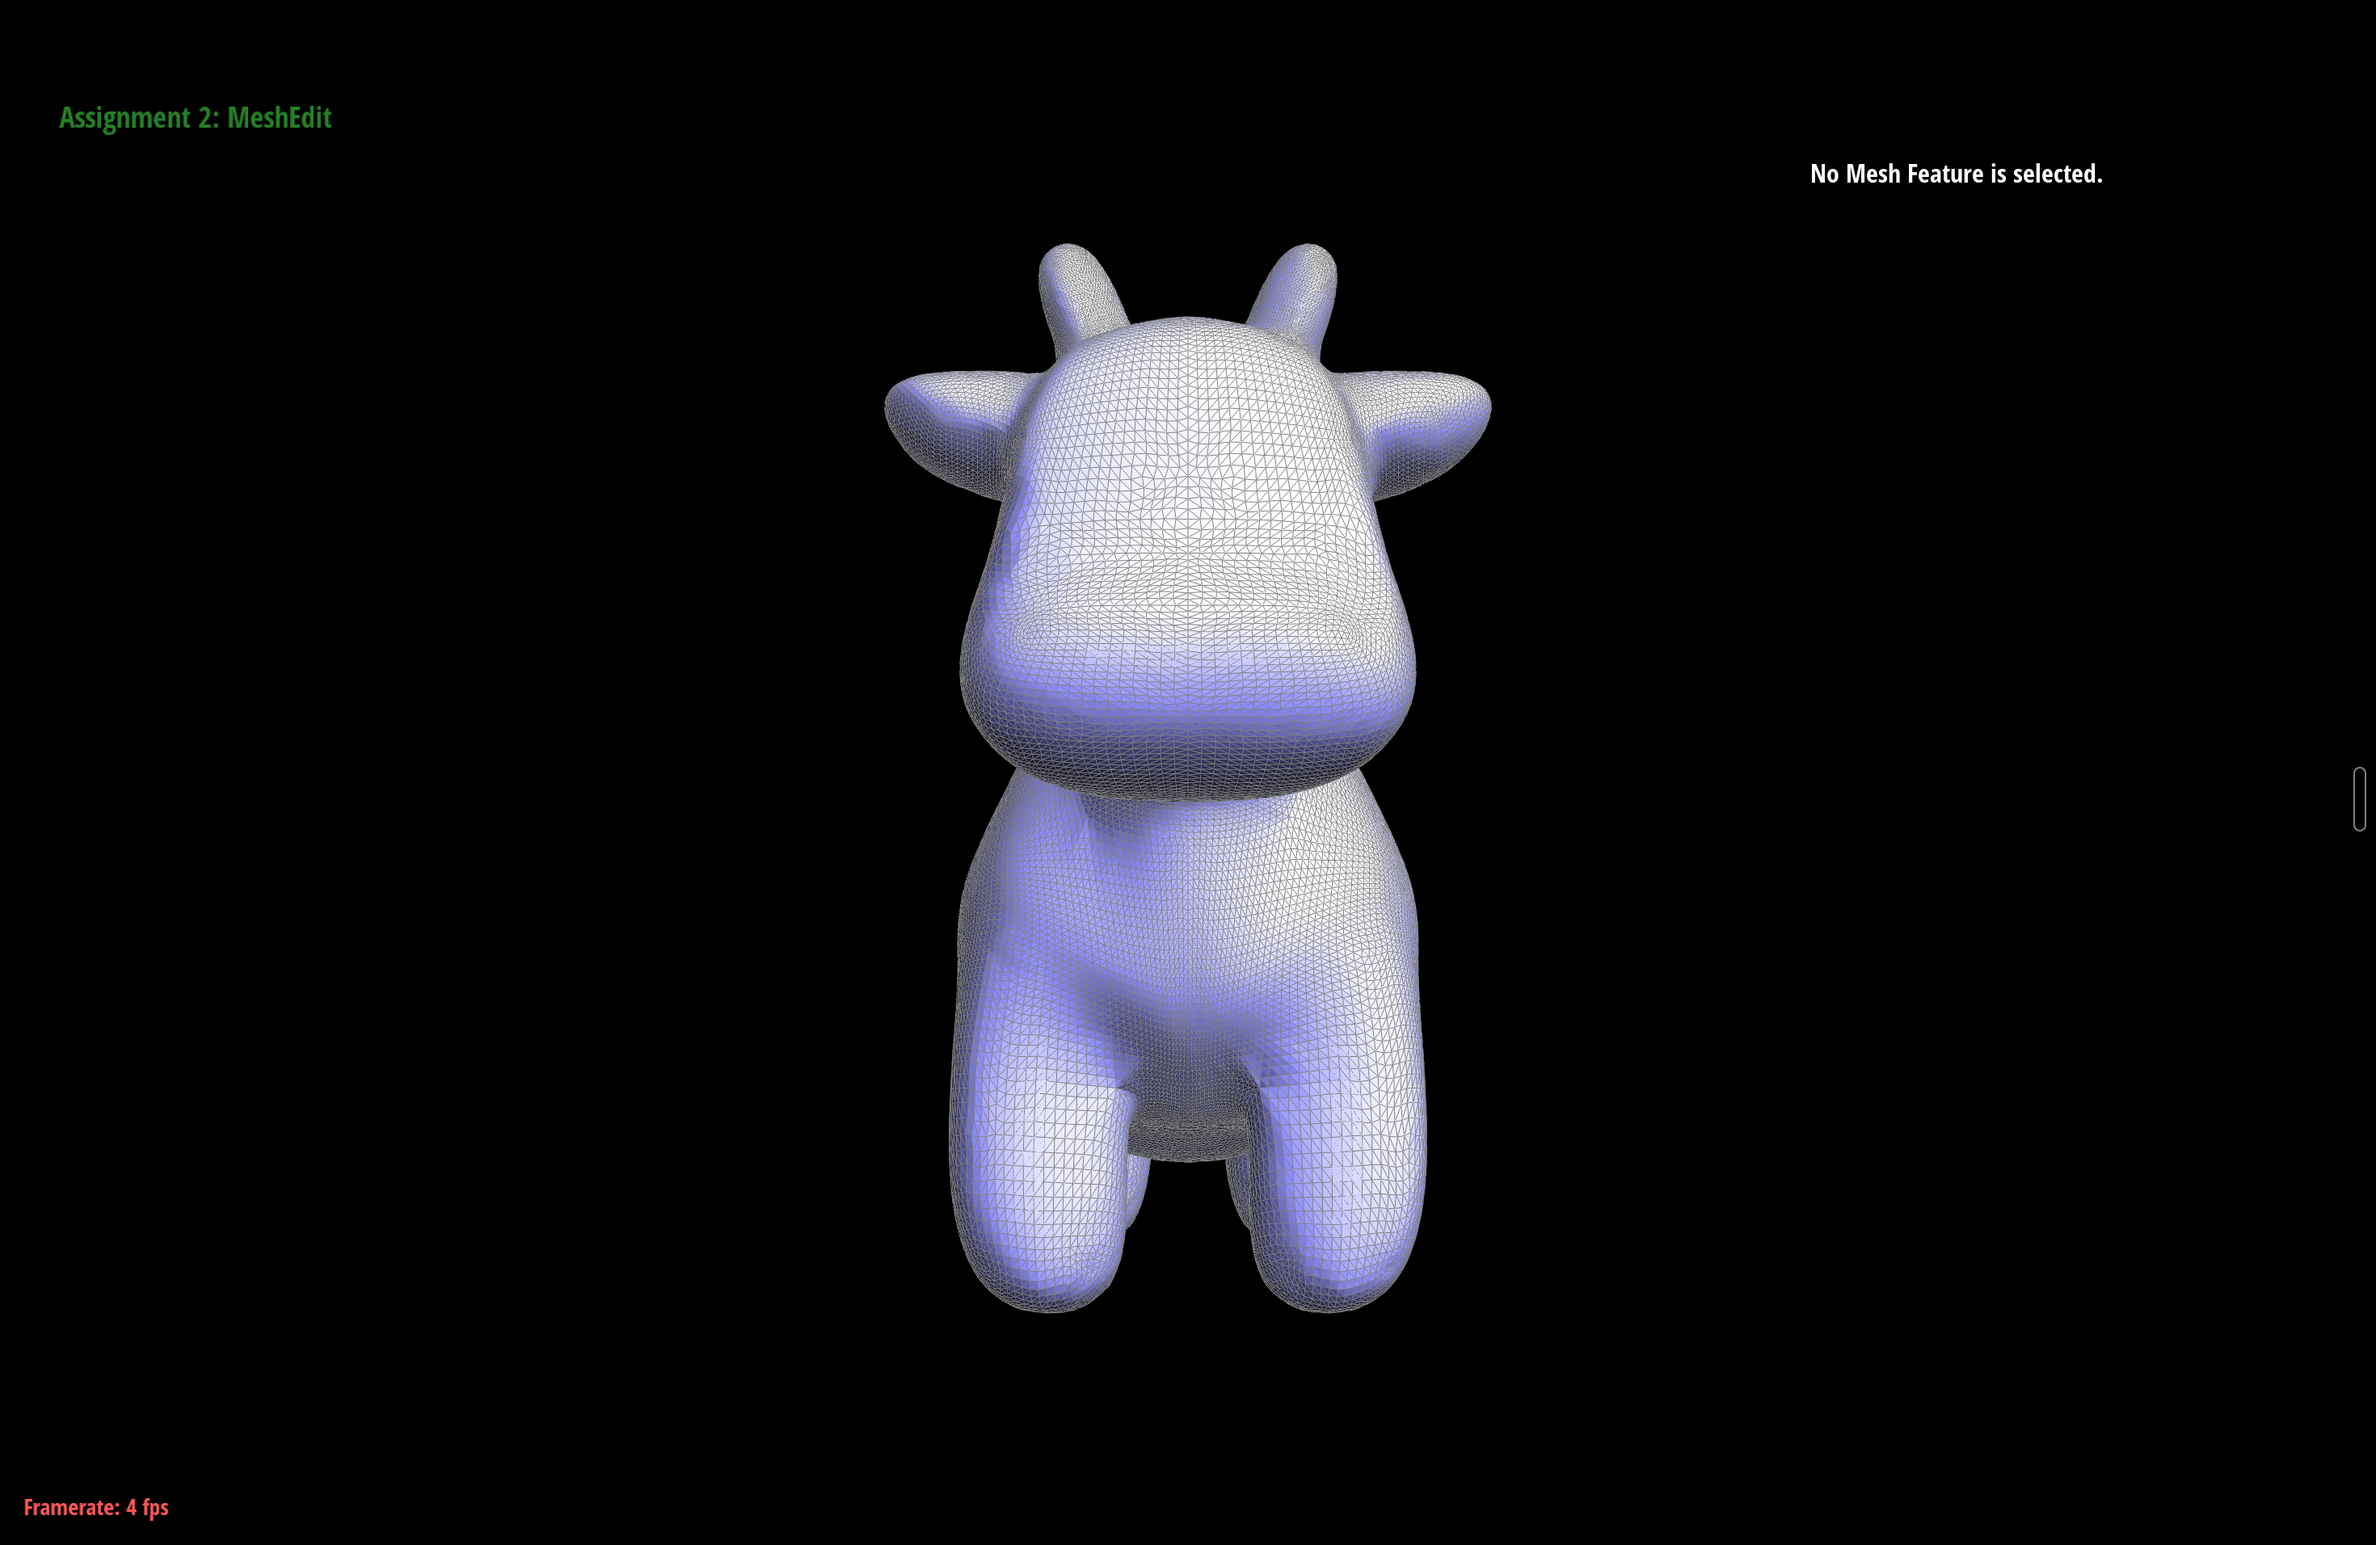
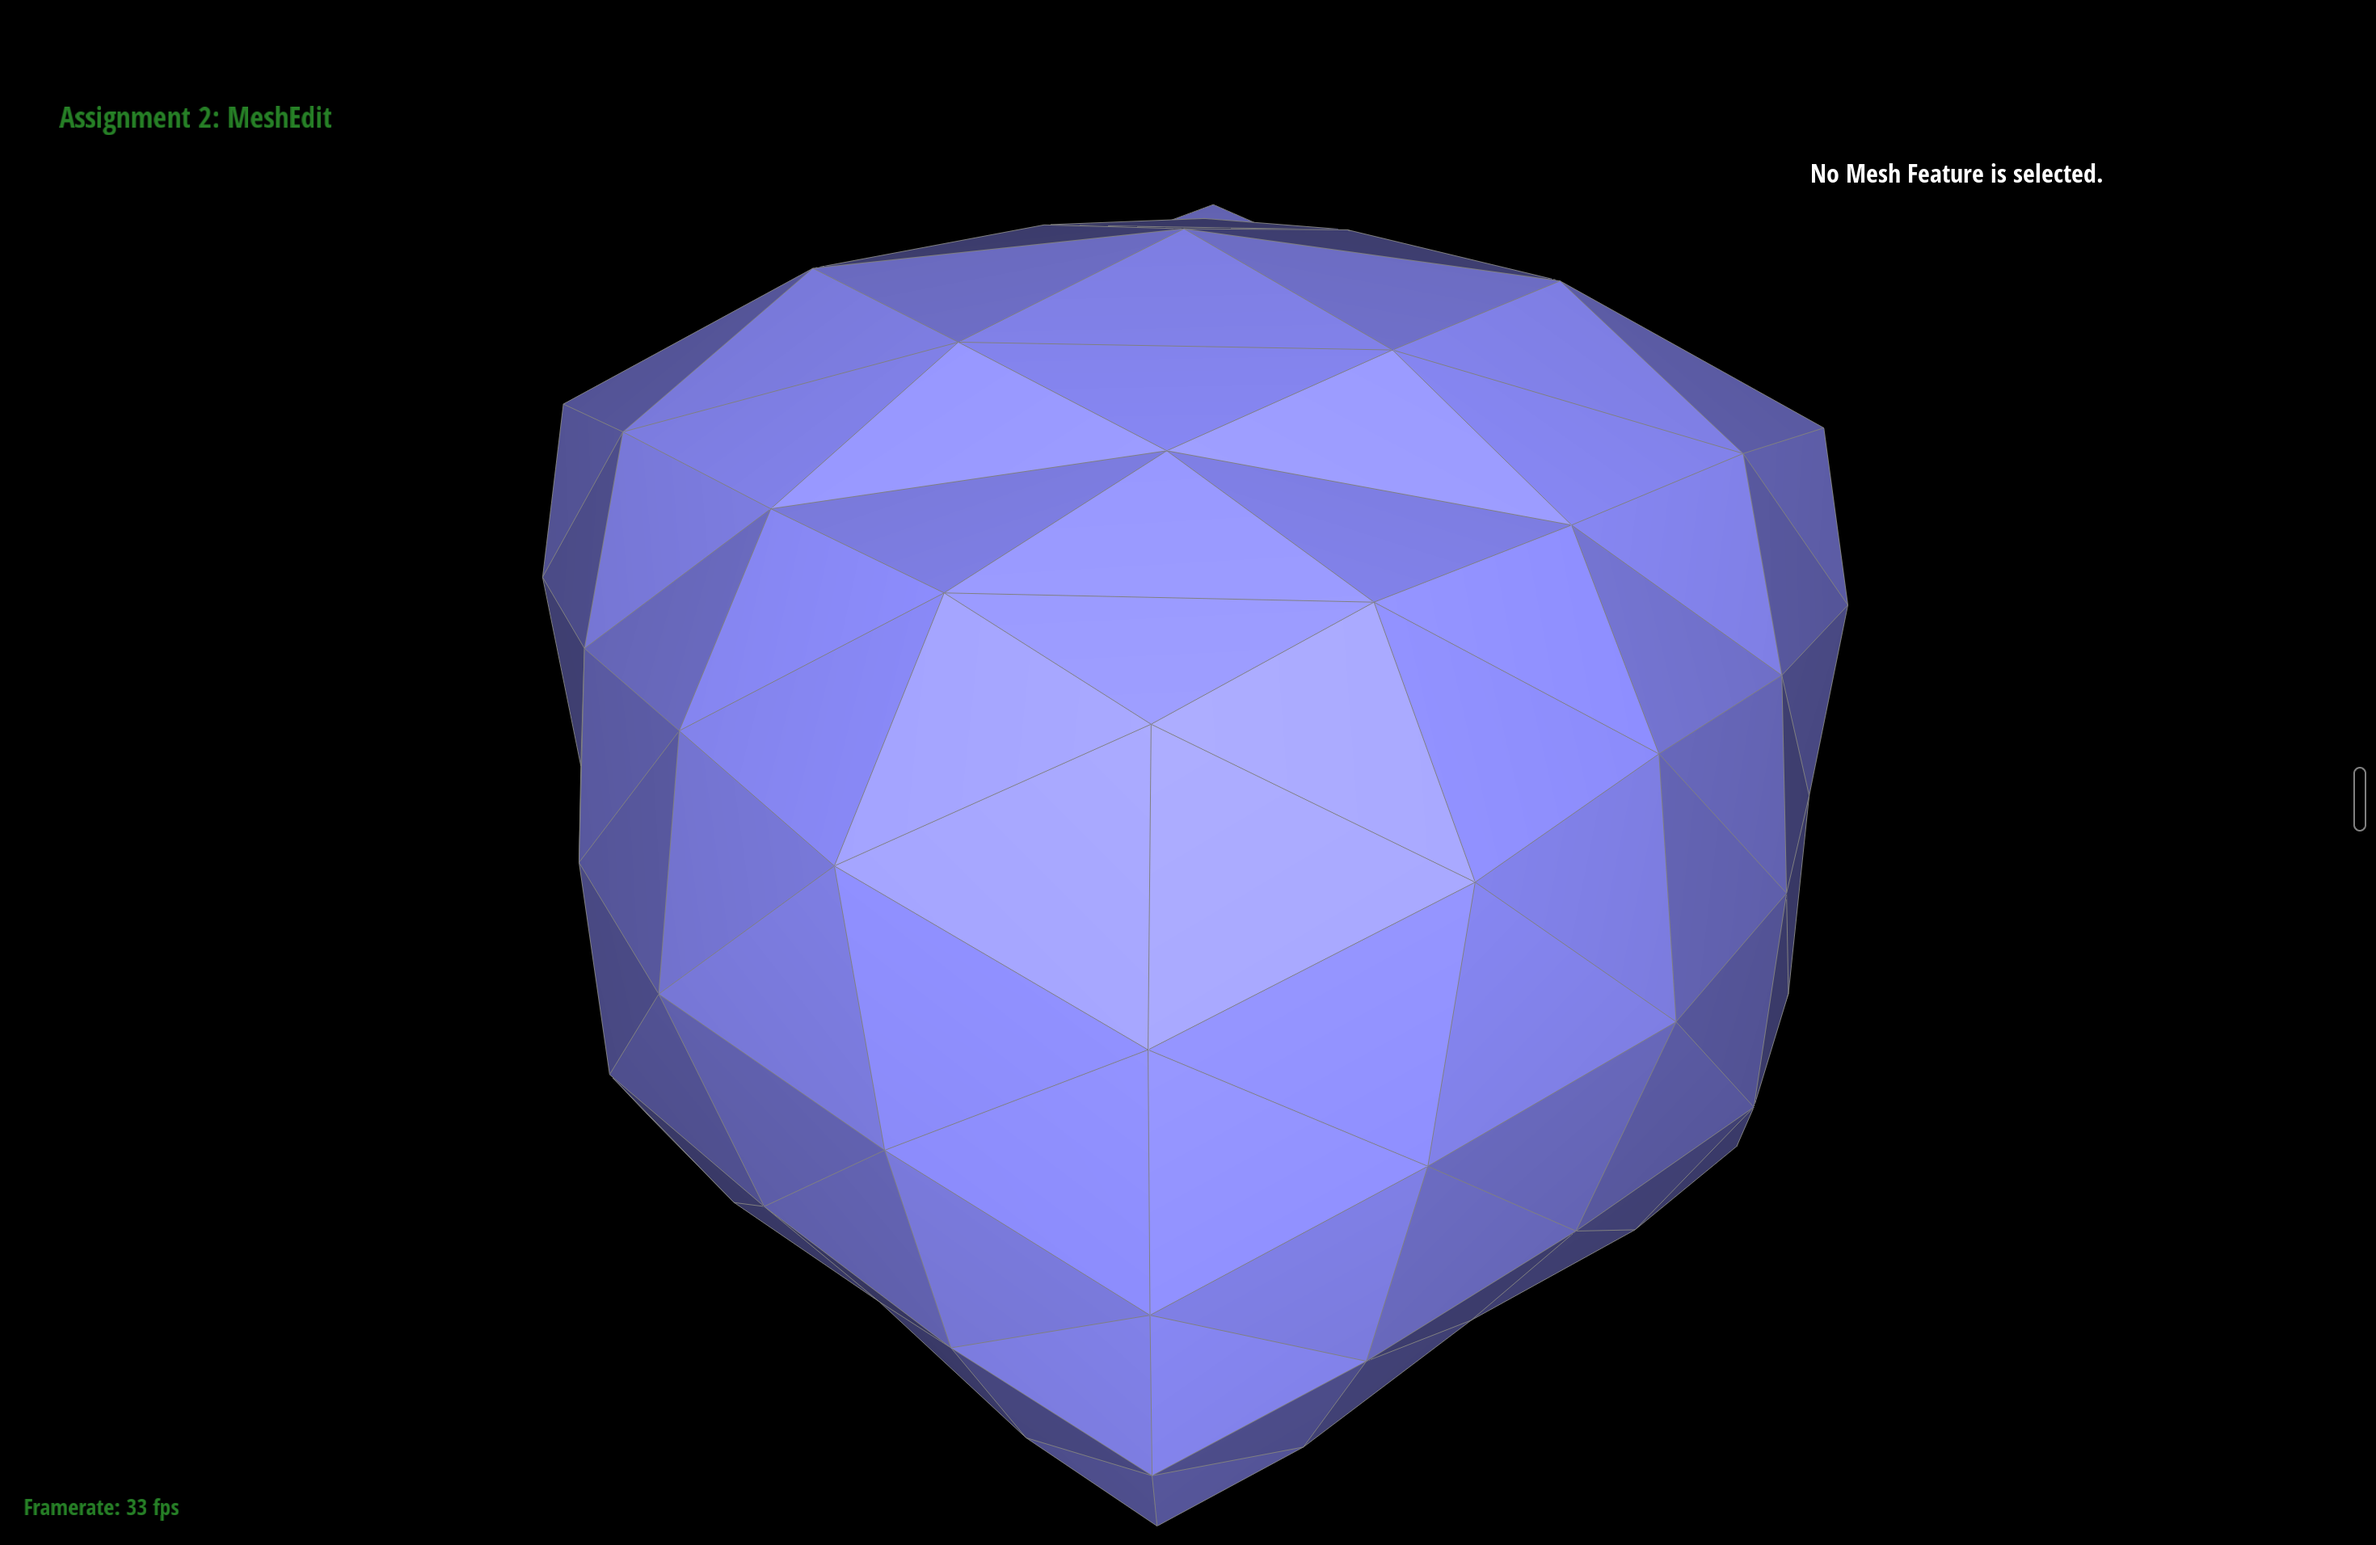
Add extra credit: Butterfly subdivision (cube Loop vs Butterfly) + boundary handling write-up

diff --git a/index.html b/index.html
@@ -284,7 +284,7 @@
 			</div>
 			<figure>
 				<img src="images/part4_closeup.png"/>
-				<figcaption>Close-up of a flipped cluster on the teapot body. The flipped edges stand out as long diagonals cutting across the otherwise regular triangulation.</figcaption>
+				<figcaption>Detail of a flipped cluster on the teapot body. The flipped edges stand out as long diagonals cutting across the otherwise regular triangulation.</figcaption>
 			</figure>
 
 			<h3>Part 5: Edge split</h3>
@@ -399,8 +399,9 @@
 			plus three face-center edges, so all eight corners now have the same degree (6) and all six
 			face centers have the same degree (4). With the degrees made uniform and the configuration
 			identical at every corner, Loop pulls every vertex by the same weight, and the cube converges
-			to a symmetric rounded shape. Both cubes below are shown from the same camera after the same
-			three rounds of subdivision.
+			to a symmetric rounded shape. Both cubes below are subdivided the same three times. (The
+			symmetric one looks a little larger, partly because the extra pre-split vertices let it hold
+			its volume and shrink less than the plain cube.)
 			</p>
 			<div class="grid">
 				<figure><img src="images/part6_cube3.png"/><figcaption>No preprocessing: 3 rounds, asymmetric.</figcaption></figure>
@@ -424,6 +425,58 @@
 			<div class="grid">
 				<figure><img src="images/part6_sharp_before.png"/><figcaption>No pre-splitting: the whole cube rounds off evenly.</figcaption></figure>
 				<figure><img src="images/part6_sharp_after.png"/><figcaption>Edges around one corner pre-split before subdividing: that corner stays comparatively sharper.</figcaption></figure>
+			</div>
+
+			<h2>Extra Credit</h2>
+			<p>
+			These three features go beyond the required parts. They all live in the same
+			<code>student_code.cpp</code>: the boundary handling is built into <code>splitEdge</code>
+			and <code>upsample</code>, and Butterfly is a separate resampler bound to the <b>B</b> key.
+			For the boundary cases I included a couple of open meshes in the repo
+			(<code>dae/open_sheet.dae</code> and <code>dae/open_dome.dae</code>) whose perimeter is a boundary.
+			</p>
+
+			<h3>Boundary edge splits</h3>
+			<p>
+			A boundary edge has a real triangle on only one side; the other side is the virtual boundary
+			face. So instead of making four triangles, I split the single real triangle into two and
+			splice the new midpoint into the boundary loop. Concretely, I reorient so my interior halfedge
+			sits on the real face, split that triangle into \((v_0, m, v_2)\) and \((m, v_1, v_2)\), then
+			replace the one boundary halfedge \(v_1 \to v_0\) with two boundary halfedges \(v_1 \to m\)
+			and \(m \to v_0\), keeping the boundary vertices (including the new \(m\)) pointed at a
+			boundary halfedge per the class convention.
+			</p>
+			<p><i>This can be checked in the app on the open meshes included in the repo (<code>dae/open_sheet.dae</code>, <code>dae/open_dome.dae</code>): selecting a rim edge shows <code>isBoundary() = 1</code>, and pressing <b>S</b> splits its single real triangle into two while the boundary loop stays intact.</i></p>
+
+			<h3>Loop subdivision on meshes with boundary</h3>
+			<p>
+			With boundary splits working, Loop extends to open meshes. Two rules change. A boundary edge
+			has no pair of opposite vertices, so its midpoint is simply \(\frac{1}{2}(A + B)\) rather than
+			the \(\frac{3}{8}/\frac{1}{8}\) stencil. And a boundary vertex is smoothed like a point on a
+			cubic B-spline curve, using only its two boundary neighbors:
+			\(\frac{3}{4}\,v + \frac{1}{8}(n_1 + n_2)\). Interior vertices and edges are untouched, so
+			closed meshes subdivide exactly as before, while an open mesh keeps a clean boundary instead
+			of tearing or collapsing.
+			</p>
+			<p><i>Likewise, pressing <b>L</b> on one of those open meshes subdivides it without tearing, and the boundary stays a clean edge rather than collapsing.</i></p>
+
+			<h3>Butterfly subdivision (<b>B</b> key)</h3>
+			<p>
+			Butterfly is a second subdivision scheme, invoked with the <b>B</b> key. Its topology step is
+			identical to Loop (split every edge, flip the new old-to-new edges), so it reuses the same
+			machinery. The difference is the geometry: Butterfly is <i>interpolating</i> rather than
+			approximating. The original vertices never move, and each new edge vertex is placed with an
+			8-point stencil,
+			\[ p = \tfrac{1}{2}(a + b) + \tfrac{1}{8}(c + d) - \tfrac{1}{16}(e + f + g + h), \]
+			where \(a, b\) are the edge endpoints, \(c, d\) the two opposite wing vertices, and
+			\(e, f, g, h\) the four outer wings reached by hopping across the neighboring triangles.
+			Because the old vertices stay fixed, Butterfly keeps the surface passing through the original
+			points, so it shrinks less than Loop, though it can look slightly less smooth at irregular
+			vertices.
+			</p>
+			<div class="grid">
+				<figure><img src="images/part6_loop_vs.png"/><figcaption>Cube, Loop &times;2 (approximating): the corners pull inward and it rounds into a blob.</figcaption></figure>
+				<figure><img src="images/part6_butterfly_vs.png"/><figcaption>Cube, Butterfly &times;2 (interpolating): the original corners stay fixed, so it keeps a cube-like shape.</figcaption></figure>
 			</div>
 
 		</div>
